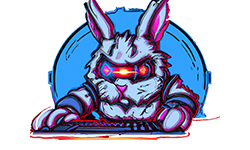
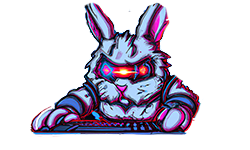
cambios finales de front

diff --git a/client/src/Components/Category/Category.jsx b/client/src/Components/Category/Category.jsx
@@ -120,7 +120,7 @@ function Category() {
                 id={e.product_id}
                 brand={e.brand}
                 name={e.name}
-                image={e.image}
+                image={e.image} 
                 price={e.price}
                 category={e.category}
                 subcategory={e.subcategory}

diff --git a/client/src/Components/Banner Home/Banner.module.css b/client/src/Components/Banner Home/Banner.module.css
@@ -18,7 +18,7 @@
     margin-left: 10%;
     margin-top: 2%;
     margin-bottom: 2%;
-    transform: translateX(80px);
+   
 }
 .imgBanner{
     width: 100%;
@@ -27,9 +27,9 @@
     margin: 5px;
 }
 
-.bannerContainer{
+/* .bannerContainer{
     transform: translateX(150px);
-}
+} */
 
 .imgBannerOferta{
    height: 50vh;

diff --git a/client/src/Components/Carrusel/styles2.css b/client/src/Components/Carrusel/styles2.css
@@ -17,7 +17,7 @@ body {
 .swiper {
   width: 100%;
   height: 100%;
-  margin-top: 30px;
+  margin-top: 70px;
   margin-bottom: 30px;
   margin-left: 5px;
   margin-right: 5px;
